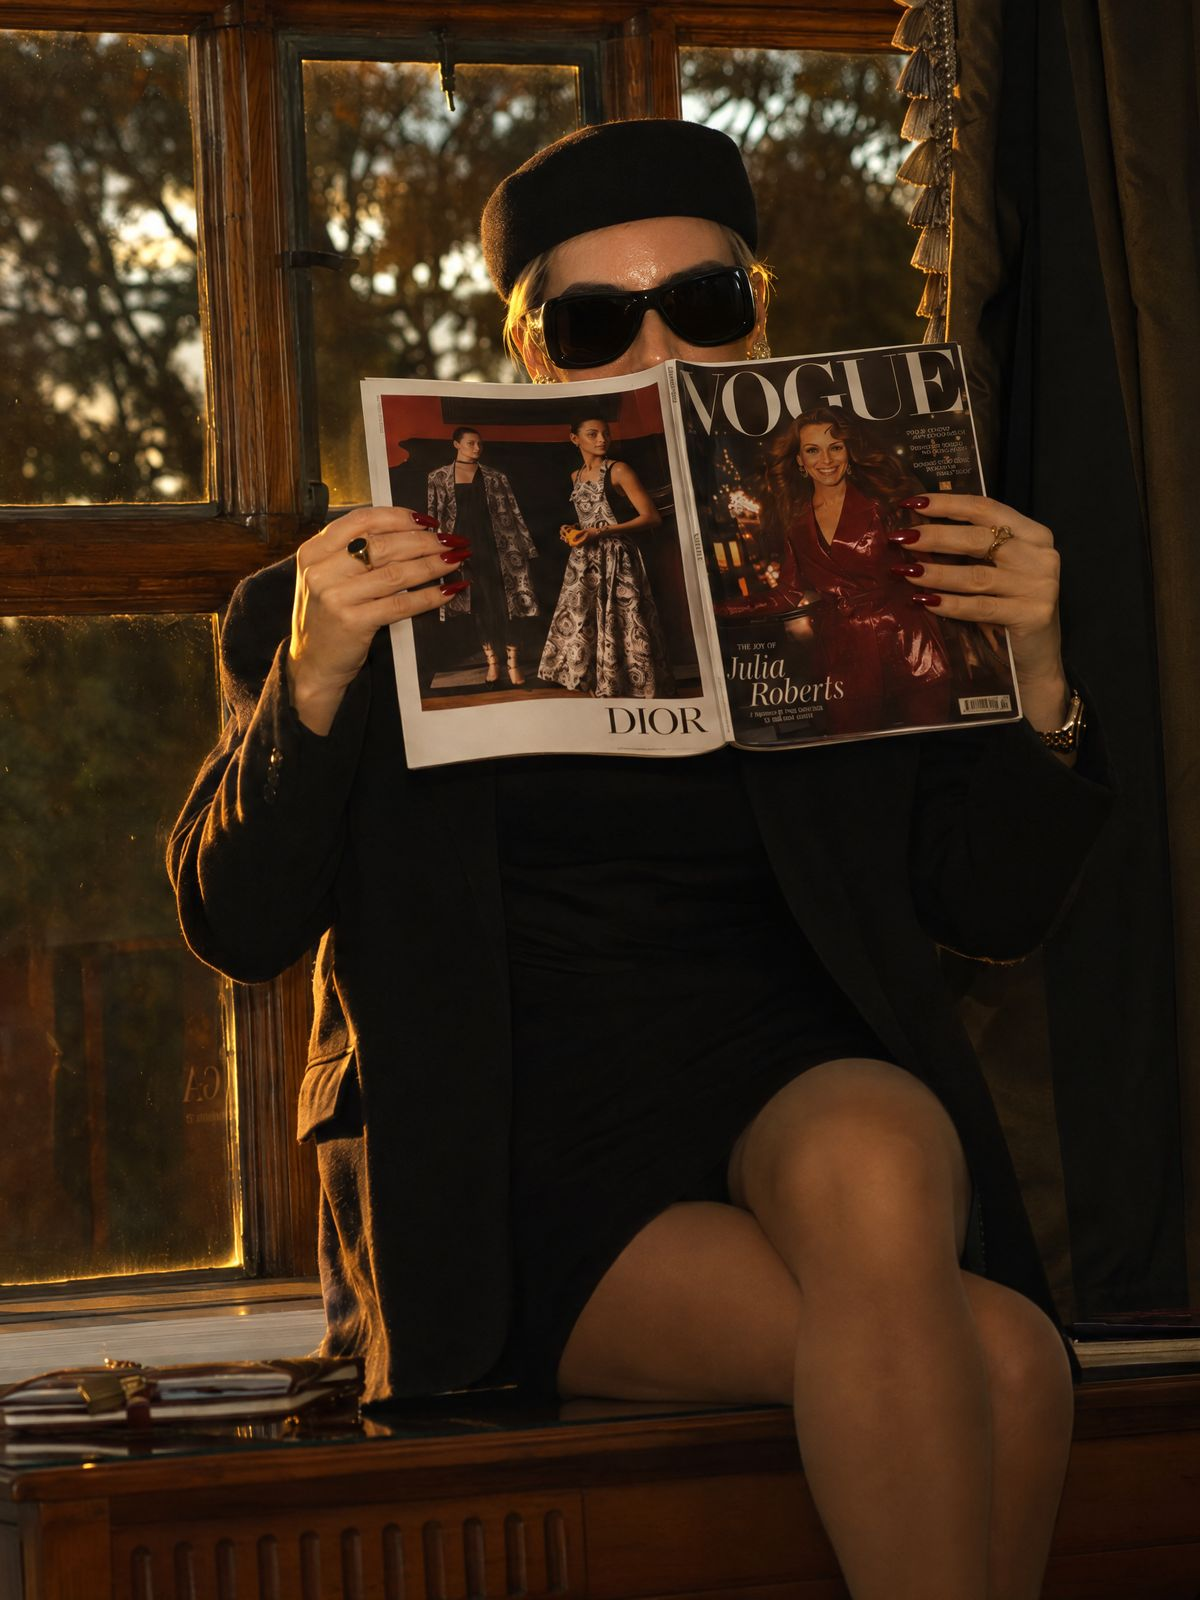
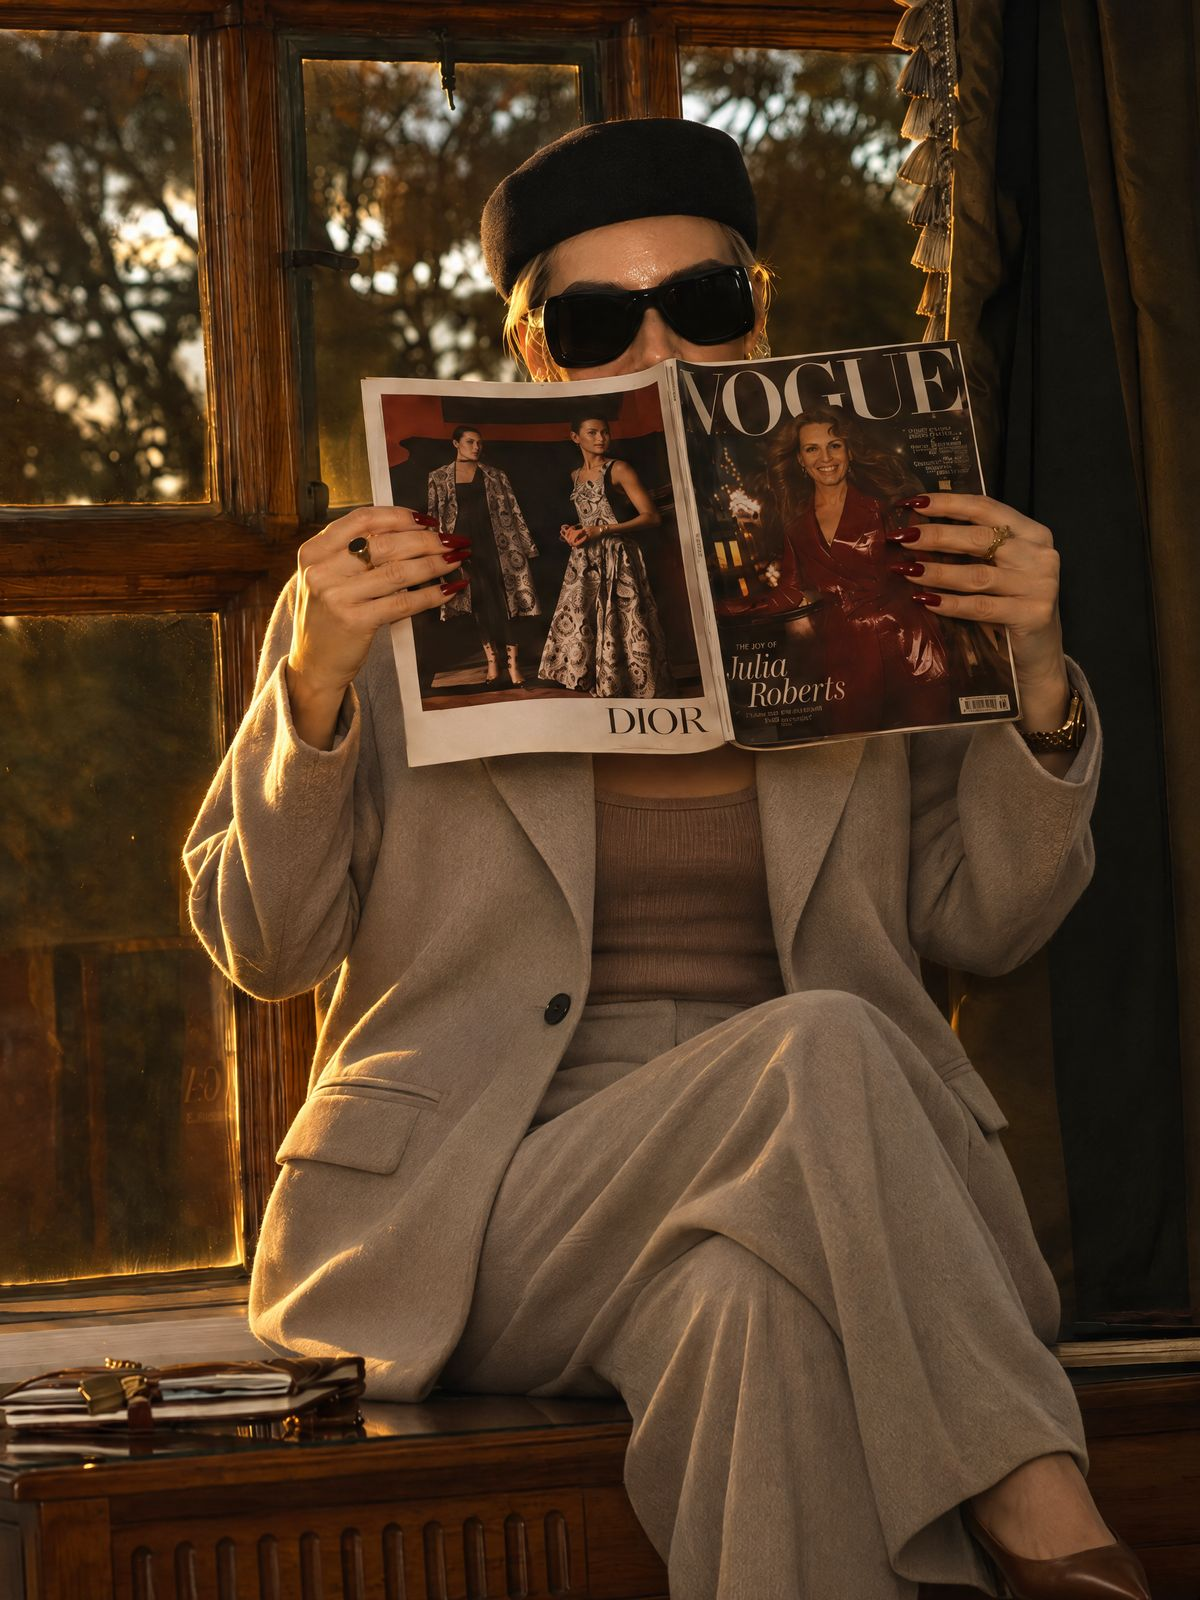
k05: window-seat hero in the grey Anabelle Suit

diff --git a/k05.html b/k05.html
@@ -651,7 +651,7 @@ body{background:var(--ivory)}
 <div id="home">
   <!-- 1. Hero film -->
   <section class="tile hero photo" data-hd="clear" id="hero" aria-label="Sovereign, Autumn–Winter 2026">
-    <picture><source media="(max-width:760px)" srcset="assets/k05/hero-window-seat-p.jpg"><img src="assets/k05/hero-window-seat-w.jpg" alt="Angelica on a window seat at golden hour, reading a magazine, a Morganà bag beside her" fetchpriority="high" decoding="async"></picture>
+    <picture><source media="(max-width:760px)" srcset="assets/k05/hero-window-seat-p.jpg"><img src="assets/k05/hero-window-seat-w.jpg" alt="Angelica on a window seat at golden hour, in a grey suit, reading a magazine, a Morganà bag beside her" fetchpriority="high" decoding="async"></picture>
     <div class="cap"><h1>Sovereign, Autumn–Winter 2026</h1><a class="btn solid" href="#/collection/sovereign">Shop now</a></div>
     <span class="scroll" aria-hidden="true">Scroll to discover more</span>
   </section>
